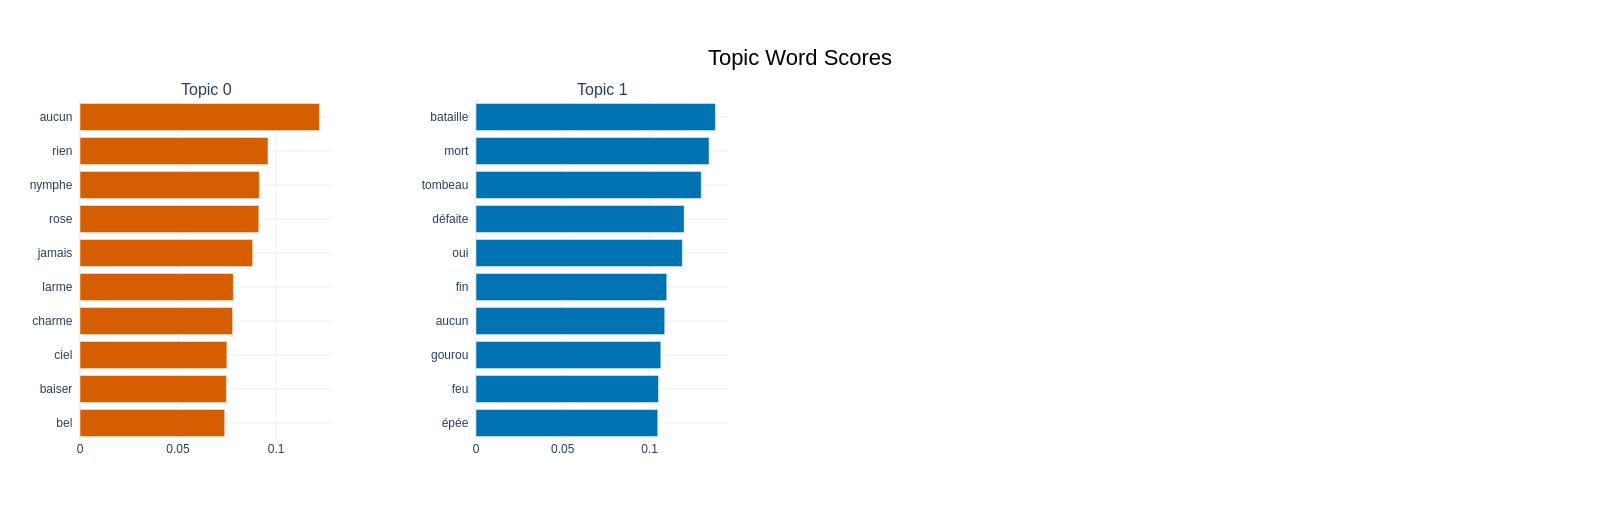
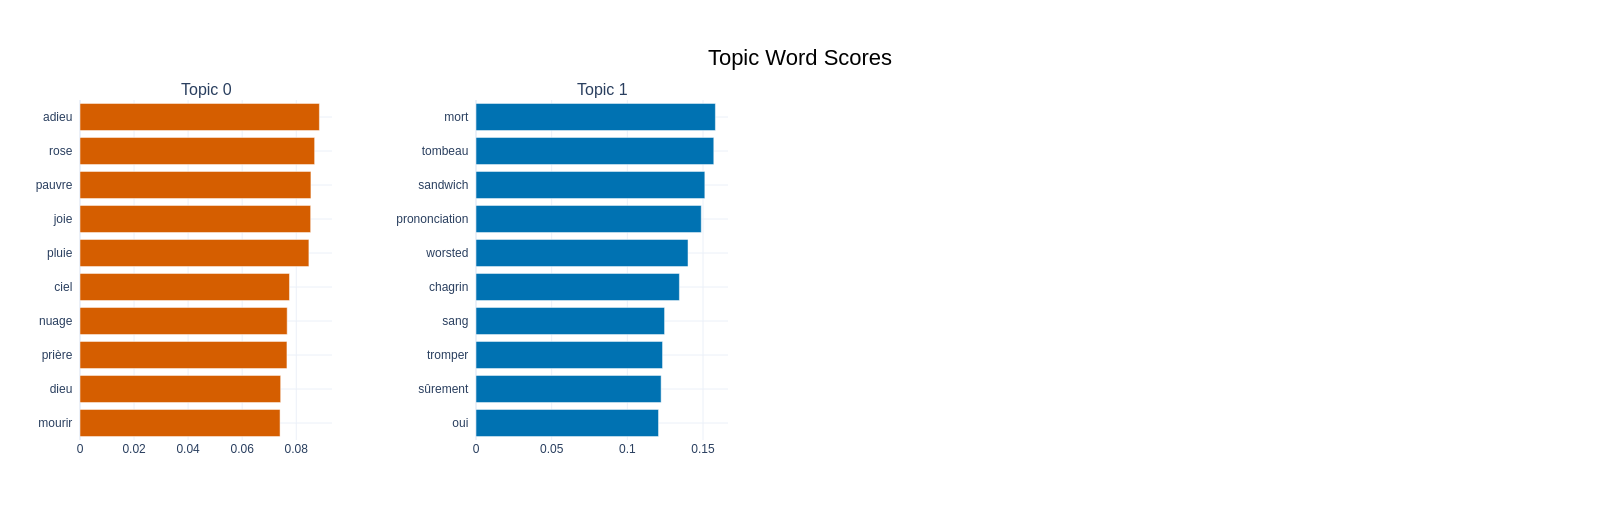
bertopic score e topicos

diff --git a/modelagemTopicos/bertopic3.py b/modelagemTopicos/bertopic3.py
@@ -159,7 +159,7 @@ if __name__ == '__main__':
     # Carrega stopwords e adiciona termos personalizados
     stopwords_personalizadas = set(stopwords.words(idioma_nltk))
     if IDIOMA_PROC == "fr_XX":
-        stopwords_personalizadas.update(["le", "la", "les", "un", "une", "jean", "john", "kaku", "lorsqu", "jusqu", "sai", "congnois", "mme", "williams", "non", "tatactatoum", "aucun", "rien"])
+        stopwords_personalizadas.update(["le", "la", "les", "un", "une", "jean", "john", "kaku", "lorsqu", "jusqu", "sai", "congnois", "mme", "williams", "non", "tatactatoum", "aucun", "rien", "worsted"])
     elif IDIOMA_PROC == "pt_XX":
         stopwords_personalizadas.update(["o", "a", "os", "as", "um", "uma", "eu", "tu", "ele", "ela", "nós", "vós", "eles", "elas", "voce", "nao", "algum"])
     elif IDIOMA_PROC == "en_XX":
